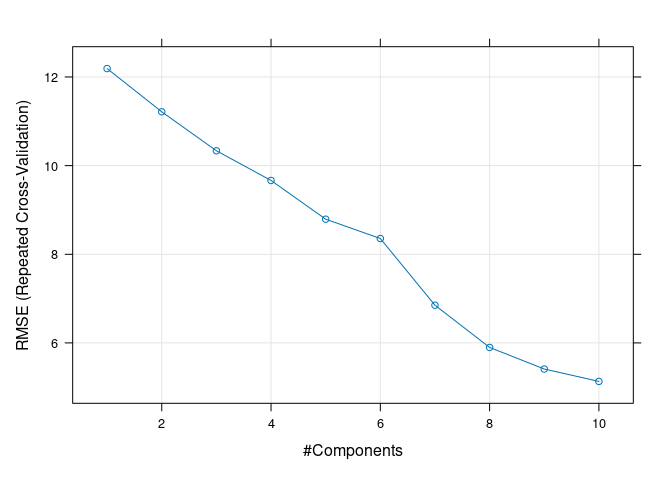
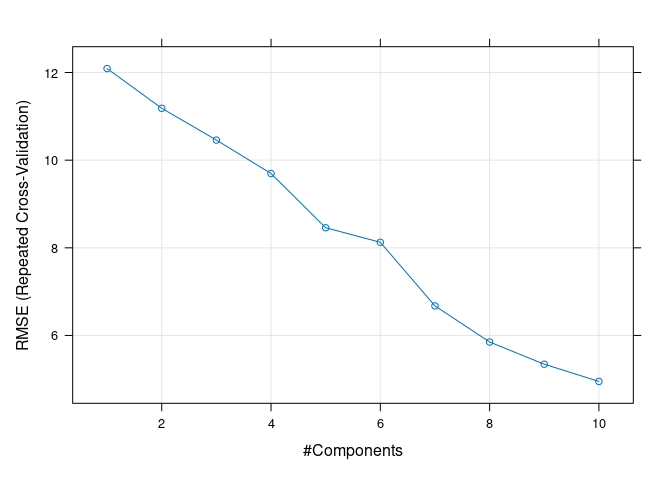
add results of independent validation

diff --git a/README.md b/README.md
@@ -1,6 +1,20 @@
 TROPIRES Summer School Uganda August 19–23 2024
 ================
 
+- [Data overview](#data-overview)
+  - [TropSOC data from Uganda (cropland and
+    forest)](#tropsoc-data-from-uganda-cropland-and-forest)
+    - [Absorbance spectra in NIR
+      range](#absorbance-spectra-in-nir-range)
+  - [Samples from PhD project Laura](#samples-from-phd-project-laura)
+- [Calibration modeling
+  (cross-validation)](#calibration-modeling-cross-validation)
+  - [Pre-process / smoothen spectra](#pre-process--smoothen-spectra)
+  - [Visualization](#visualization)
+  - [PLS modeling](#pls-modeling)
+- [Calibration modeling (independent
+  validation)](#calibration-modeling-independent-validation)
+
 Data for soil near-infrared calibration modeling exercises
 
 Leonardo Ramirez-Lopez, Moritz Mainka, Laura Summerauer
@@ -73,7 +87,7 @@ str(laura_data)
     ##   .. ..$ : NULL
     ##   .. ..$ : chr [1:1745] "7408" "7406" "7404" "7402" ...
 
-# Calibration modeling
+# Calibration modeling (cross-validation)
 
 - Use here merged TropSOC and Laura samples (except volcanic Saaka
   samples)
@@ -179,20 +193,20 @@ pls_model
     ## 
     ## Pre-processing: centered (1727), scaled (1727) 
     ## Resampling: Cross-Validated (10 fold, repeated 1 times) 
-    ## Summary of sample sizes: 135, 136, 137, 135, 138, 135, ... 
+    ## Summary of sample sizes: 136, 135, 137, 136, 136, 136, ... 
     ## Resampling results across tuning parameters:
     ## 
     ##   ncomp  RMSE       Rsquared   MAE      
-    ##    1     12.189455  0.2634334  10.074670
-    ##    2     11.214014  0.3518924   9.033373
-    ##    3     10.334903  0.4270683   8.362651
-    ##    4      9.664797  0.5026139   7.610964
-    ##    5      8.791571  0.6315563   7.188095
-    ##    6      8.355115  0.6482185   7.073286
-    ##    7      6.850762  0.7742630   5.396796
-    ##    8      5.897857  0.8368556   4.638463
-    ##    9      5.411480  0.8686119   4.127582
-    ##   10      5.131408  0.8812500   3.939227
+    ##    1     12.089506  0.2647102  10.043177
+    ##    2     11.183143  0.3676815   9.017639
+    ##    3     10.458033  0.4560164   8.509421
+    ##    4      9.695198  0.5248048   7.758354
+    ##    5      8.457360  0.6483094   6.916898
+    ##    6      8.125645  0.6705847   6.810440
+    ##    7      6.674624  0.7791667   5.296012
+    ##    8      5.850321  0.8267546   4.514791
+    ##    9      5.343789  0.8524816   4.219340
+    ##   10      4.951271  0.8758906   3.823780
     ## 
     ## RMSE was used to select the optimal model using  the one SE rule.
     ## The final value used for the model was ncomp = 10.
@@ -210,3 +224,56 @@ range(alldata$TC_gkg)
     ## [1]  0.334 54.860
 
 ![](README_files/figure-gfm/unnamed-chunk-8-1.png)<!-- -->
+
+# Calibration modeling (independent validation)
+
+``` r
+# kennard-Stone sampling for independent validation
+kS <- prospectr::kenStone(X = alldata$abs_pre, k = 2/3*nrow(alldata),
+               metric = "mahal", pc = 10,
+               # group = as.factor(alldata$core_id),
+               .center = TRUE, .scale = FALSE)
+
+
+calset <- alldata[kS$model,]
+valset <- alldata[kS$test,]
+
+calset$rowIndex <- c(1:nrow(calset))
+
+## train a pls regression model
+pls_model_iv <- caret::train(x = calset$abs_pre,
+                          y = calset$TC_gkg,
+                          method = "pls",
+                          tuneLength = pls_ncomp_max,
+                          trControl = train_control,
+                          preProcess = c("center", "scale"))
+
+pls_model_iv
+```
+
+    ## Partial Least Squares 
+    ## 
+    ##  101 samples
+    ## 1727 predictors
+    ## 
+    ## Pre-processing: centered (1727), scaled (1727) 
+    ## Resampling: Cross-Validated (10 fold, repeated 1 times) 
+    ## Summary of sample sizes: 91, 90, 92, 92, 90, 92, ... 
+    ## Resampling results across tuning parameters:
+    ## 
+    ##   ncomp  RMSE       Rsquared   MAE      
+    ##    1     12.116122  0.3116348  10.010516
+    ##    2     11.316346  0.4249590   9.289510
+    ##    3     10.753785  0.4482945   8.937809
+    ##    4     10.170733  0.5214769   8.353548
+    ##    5      8.858732  0.6472032   7.428878
+    ##    6      8.584578  0.6606153   7.265103
+    ##    7      7.771527  0.7336182   6.289010
+    ##    8      6.773612  0.8044058   5.243287
+    ##    9      6.243835  0.8207086   4.899525
+    ##   10      5.728490  0.8463005   4.527086
+    ## 
+    ## RMSE was used to select the optimal model using  the one SE rule.
+    ## The final value used for the model was ncomp = 9.
+
+![](README_files/figure-gfm/unnamed-chunk-10-1.png)<!-- -->
